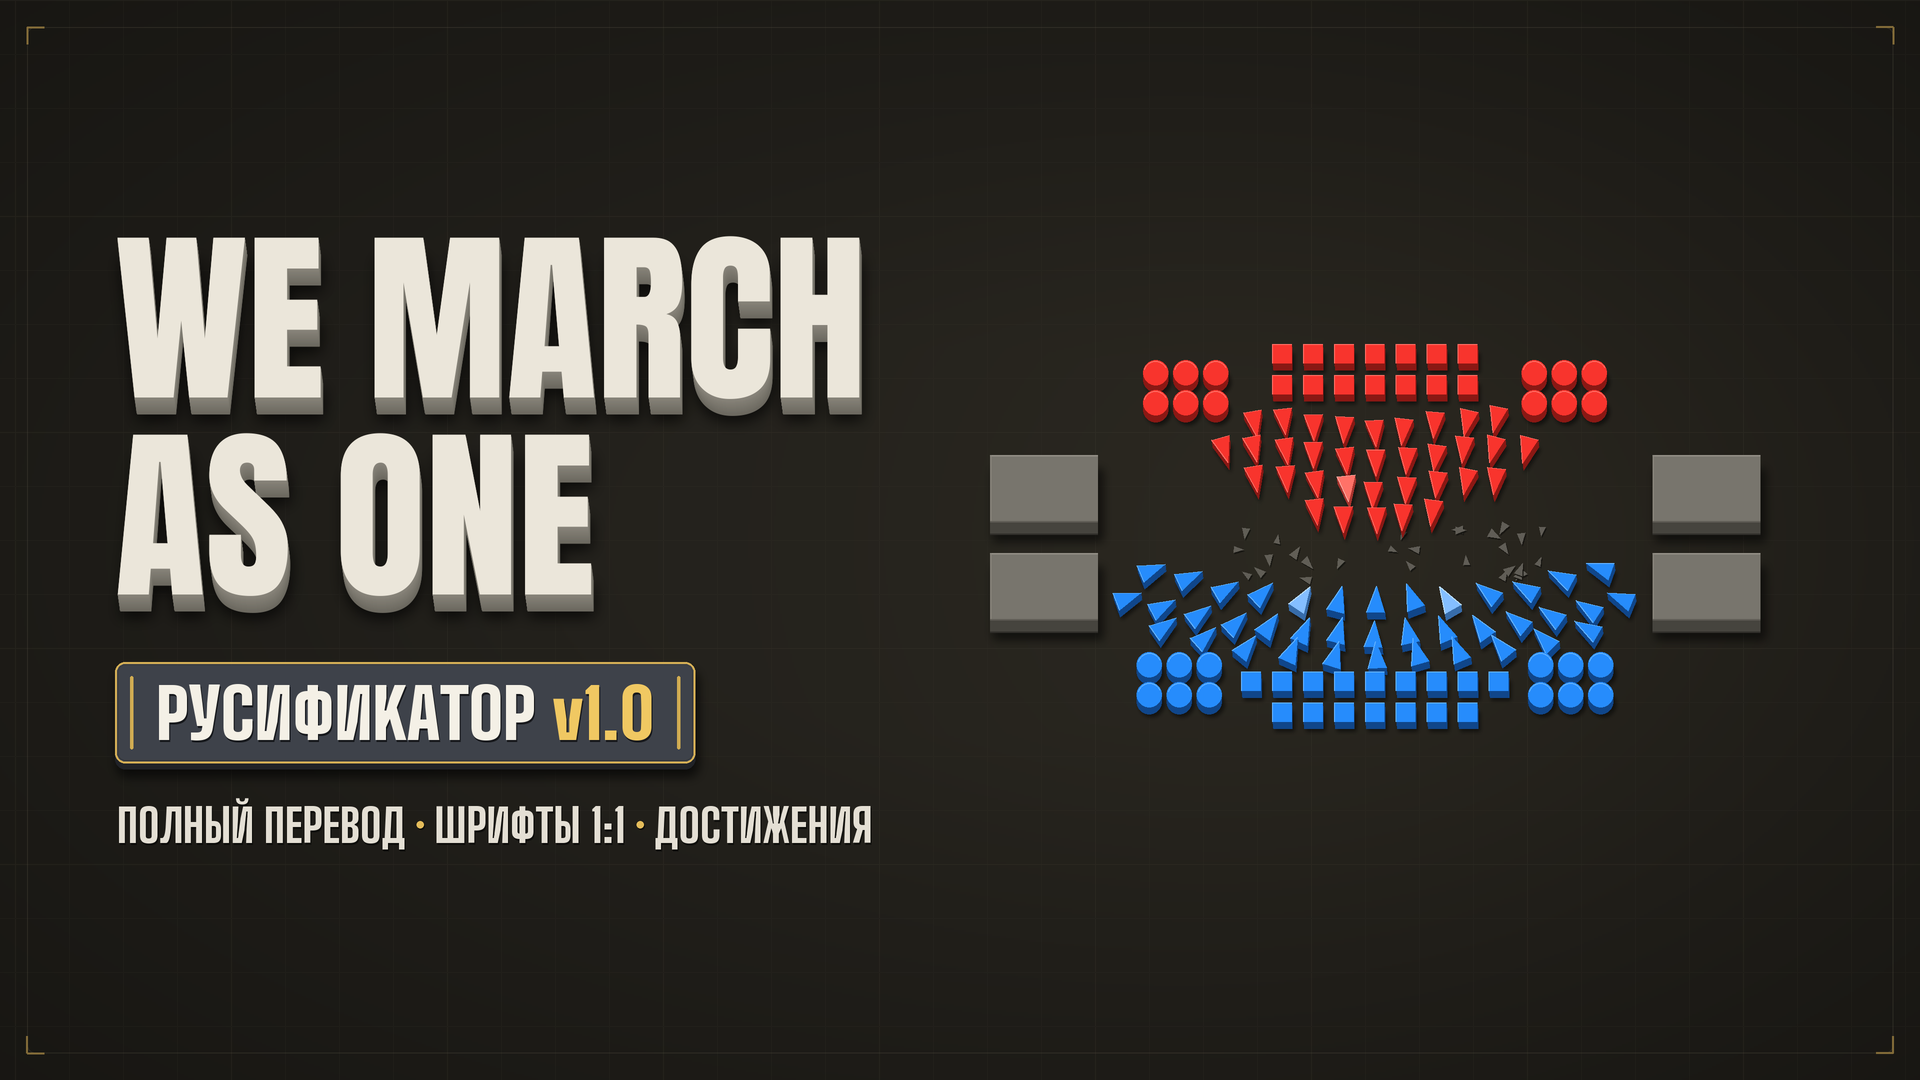
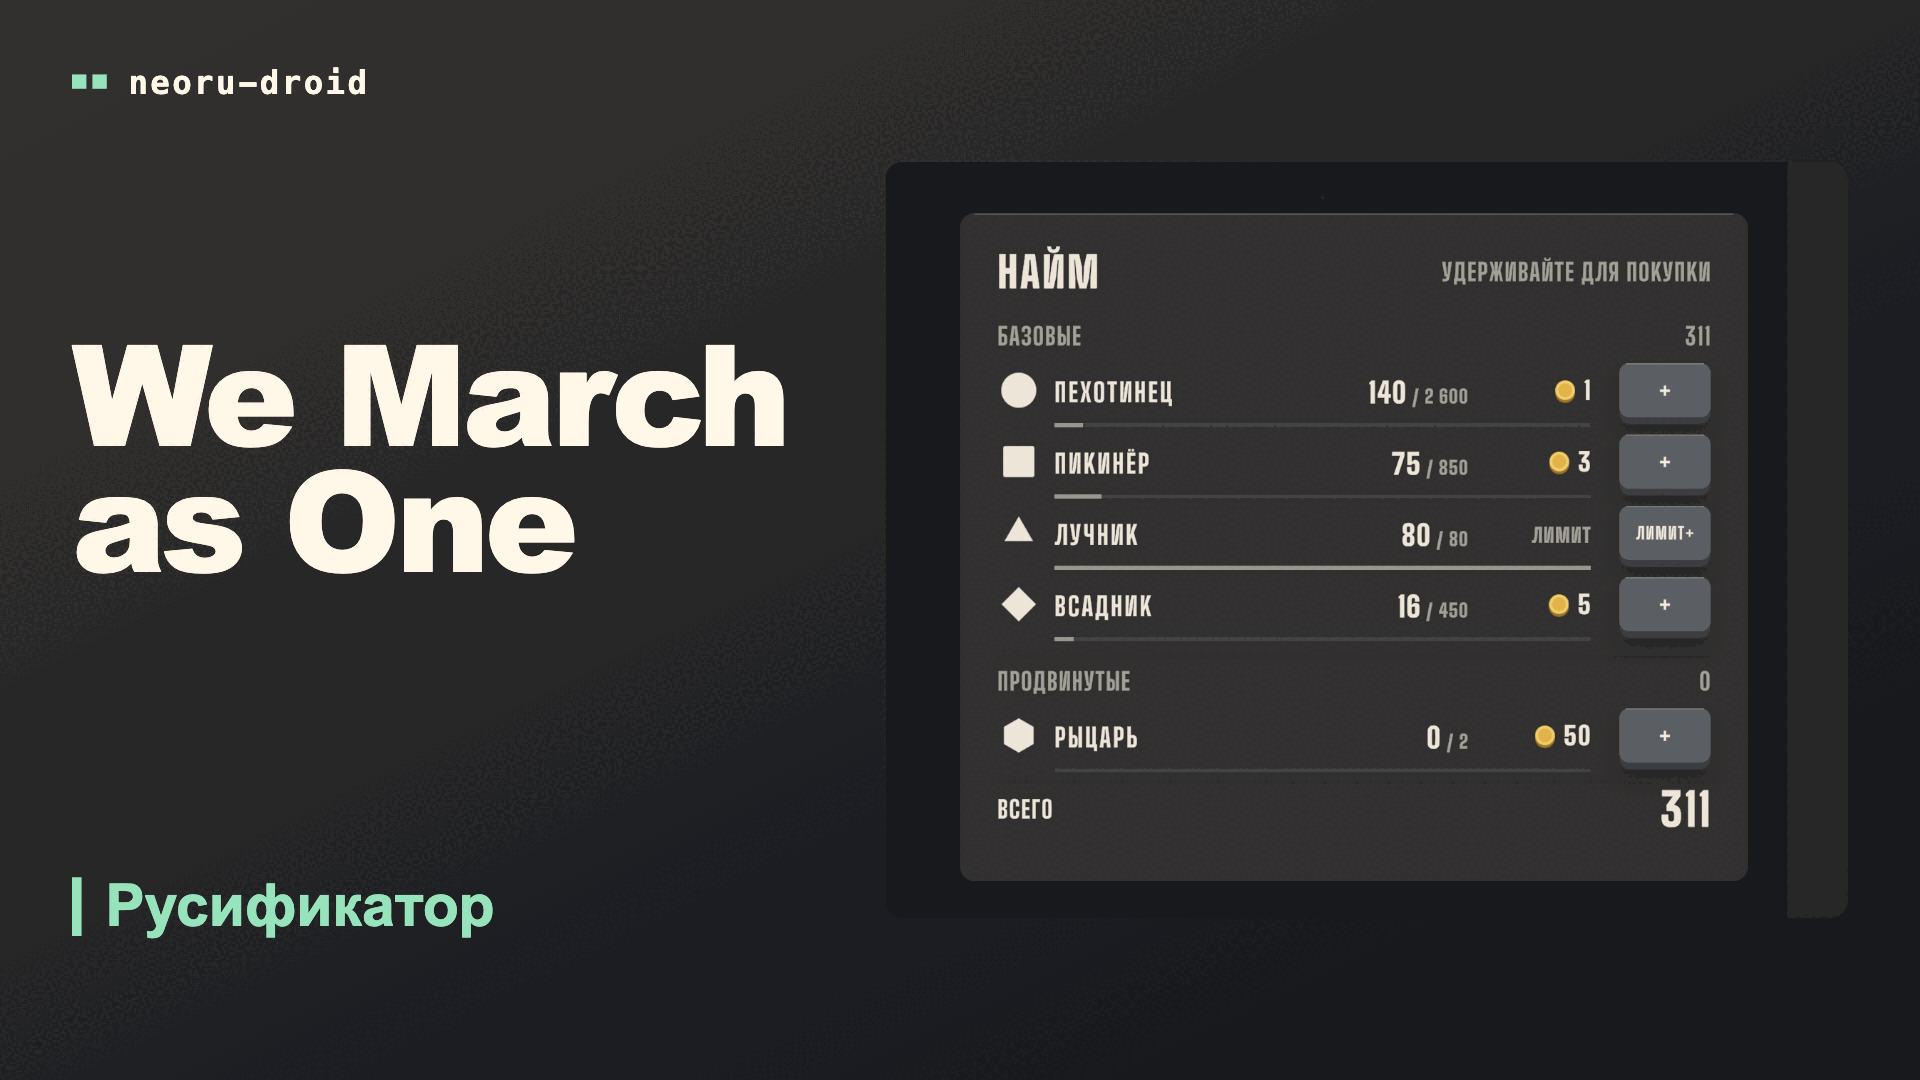
Обновить оформление и ссылки для скачивания

diff --git a/README.md b/README.md
@@ -1,12 +1,12 @@
-# We March as One: Русификатор
+# We March as One · Русификатор
 
-![We March as One: Русификатор](docs/screenshots/cover_wide.png)
+Кампания на 50 уровней, пять игровых шрифтов с кириллицей и экран 30 достижений.
 
-Русский перевод текста, 5 родных шрифтов и встроенный экран достижений в меню игры для **We March as One**.
+**[Скачать перевод v1.1 (ZIP)](https://github.com/neoru-droid/we-march-as-one-ru/releases/download/v1.1.0/WeMarchAsOne-RU-v1.1.zip)** · [Как установить](#установка)
 
-**[Скачать WeMarchAsOne-RU-v1.1.zip](https://github.com/neoru-droid/we-march-as-one-ru/releases/latest)**
+Проверенная сборка Steam: 26651298.
 
-[Все версии](https://github.com/neoru-droid/we-march-as-one-ru/releases) · [Руководство в Steam](https://steamcommunity.com/sharedfiles/filedetails/?id=3840161059) · [Тема в Steam](https://steamcommunity.com/app/5189160/discussions/0/564799430246758320/) · [Boosty](https://boosty.to/cd_tixo) · [Все переводы автора](https://github.com/neoru-droid)
+![Русские названия отрядов на экране найма](docs/screenshots/cover_wide.png)
 
 ## Установка
 1. Закройте игру, распакуйте архив и запустите `WeMarchAsOne-RU-Setup.exe` -> **«Установить русификатор»**.
@@ -17,21 +17,36 @@
 
 ## Скриншоты
 
-| Главное меню | Выбор режима |
-| :---: | :---: |
-| ![Главное меню](docs/screenshots/guide_1_main_menu.png) | ![Выбор режима](docs/screenshots/guide_2_modes.png) |
+<details>
+<summary>Открыть игровые кадры</summary>
 
-| Достижения | Древо навыков |
-| :---: | :---: |
-| ![Достижения](docs/screenshots/guide_3_achievements.png) | ![Древо навыков](docs/screenshots/guide_4_skill_tree.png) |
+**Главное меню**
 
-| Кампания | Установщик |
-| :---: | :---: |
-| ![Кампания](docs/screenshots/guide_5_battle.png) | ![Установщик](docs/screenshots/guide_6_installer.png) |
+![Главное меню](docs/screenshots/guide_1_main_menu.png)
+
+**Выбор режима**
+
+![Выбор режима](docs/screenshots/guide_2_modes.png)
+
+**Выбор уровня кампании**
+
+![Выбор уровня кампании](docs/screenshots/guide_5_battle.png)
+
+**Достижения**
+
+![Достижения](docs/screenshots/guide_3_achievements.png)
+
+**Древо навыков**
+
+![Древо навыков](docs/screenshots/guide_4_skill_tree.png)
+
+</details>
 
 ## История обновлений
 - **[v1.1](https://github.com/neoru-droid/we-march-as-one-ru/releases/tag/v1.1.0)** - обновлённый установщик с быстрыми ссылками и поддержкой Steam Deck.
-- **[v1.0](https://github.com/neoru-droid/we-march-as-one-ru/releases/tag/v1.0.0)** - первый релиз перевода 50 уровней кампании, 5 шрифтов и экрана 30 достижений в меню игры.
+- **[v1.0](https://github.com/neoru-droid/we-march-as-one-ru/releases/tag/v1.0.0)** - первый релиз перевода 50 уровней кампании, 5 шрифтов и экрана 30 достижений в меню игры. [Обложка v1.0](docs/screenshots/cover_v1.0.png) · [Установщик v1.0](docs/screenshots/guide_6_installer.png)
+
+[Все версии](https://github.com/neoru-droid/we-march-as-one-ru/releases) · [Руководство в Steam](https://steamcommunity.com/sharedfiles/filedetails/?id=3840161059) · [Тема в Steam](https://steamcommunity.com/app/5189160/discussions/0/564799430246758320/)
 
 <a id="support"></a>
 ## Поддержать
